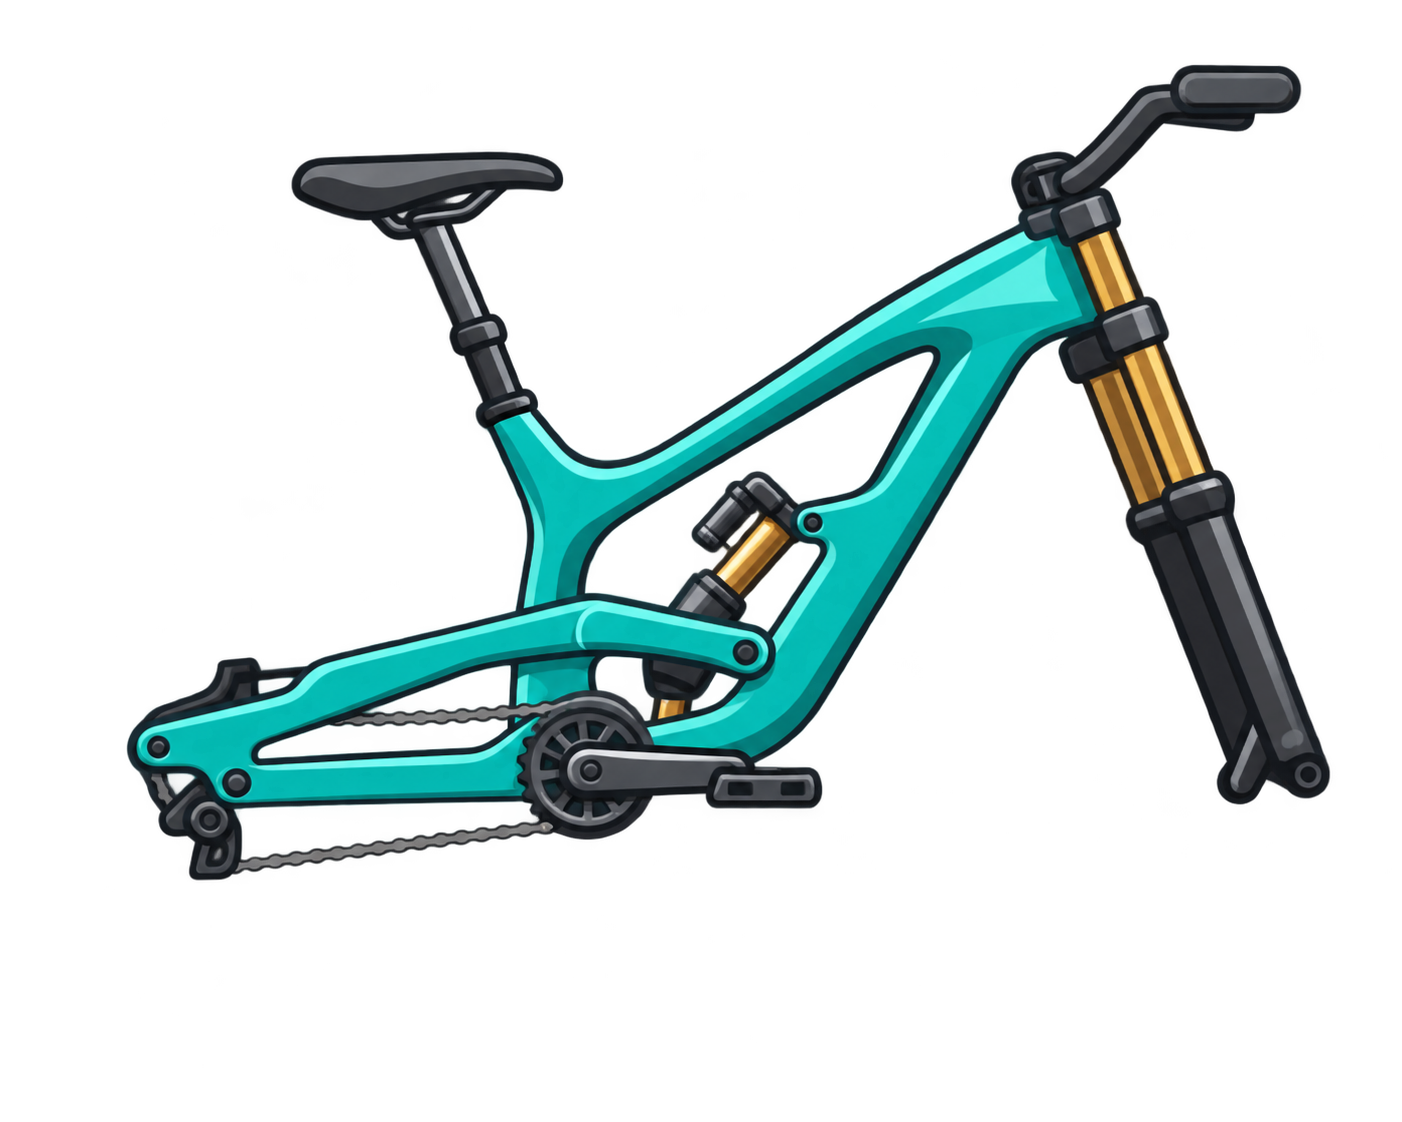
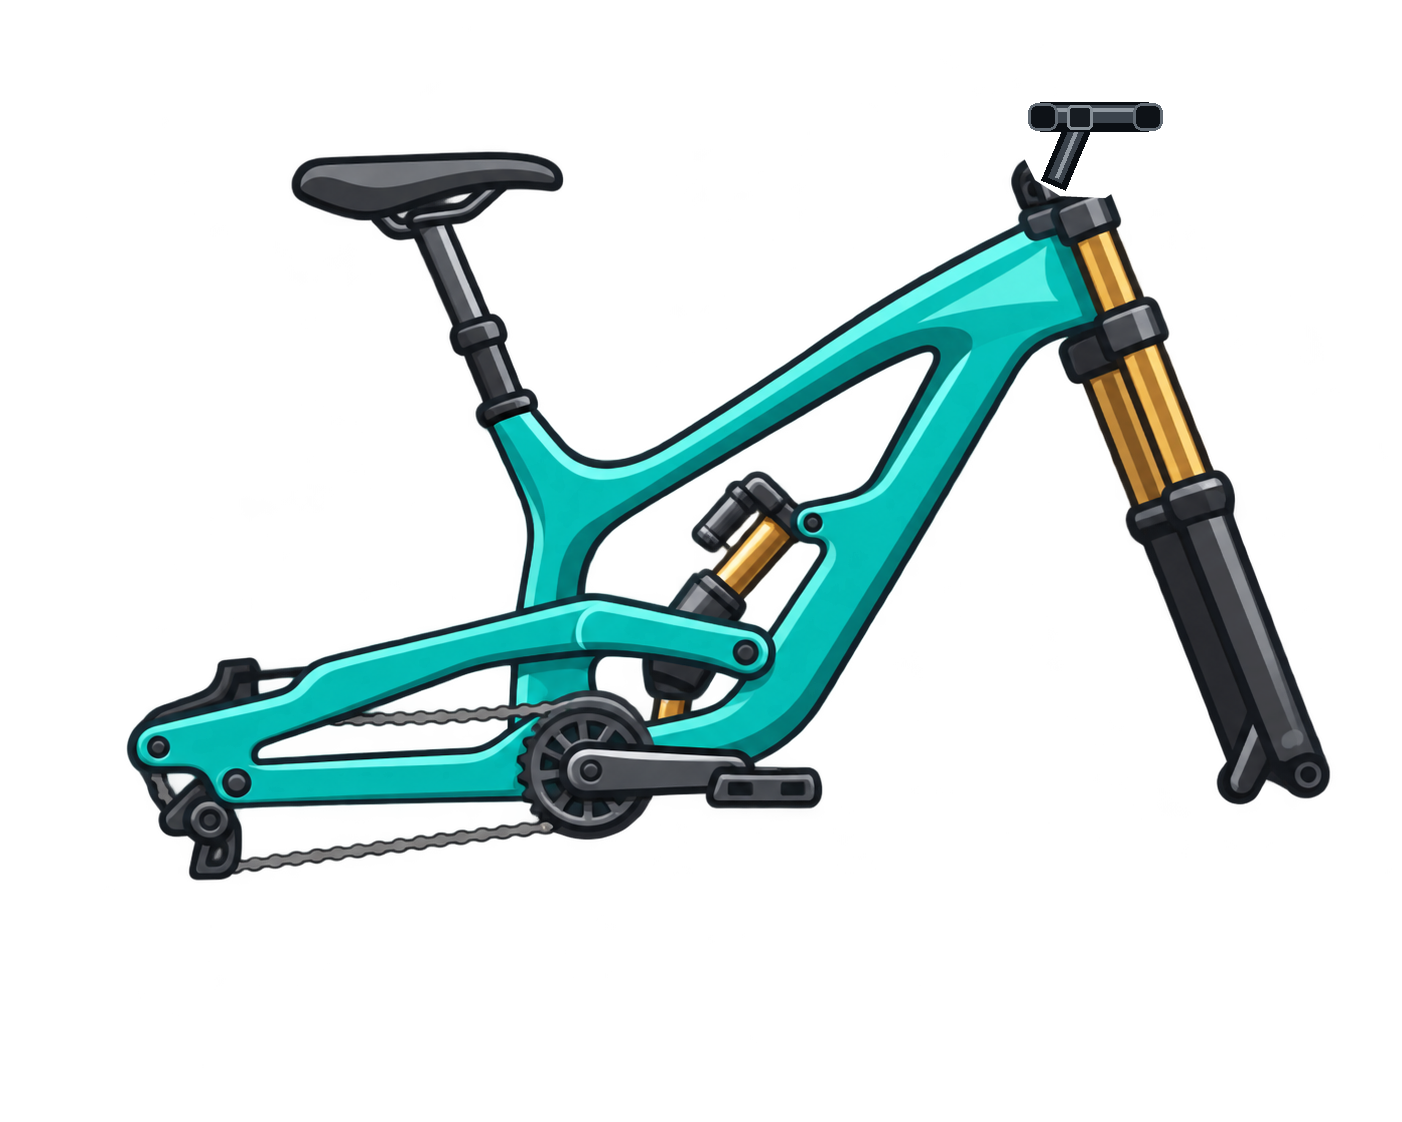
Add files via upload

Changed region(s): [[0.7361, 0.0312, 0.9508, 0.1872]]

diff --git a/index.html b/index.html
@@ -37,7 +37,7 @@
 @keyframes splashLoad{to{width:100%}}
 @media(orientation:portrait){#app{inset:auto;top:0;left:100%;width:100vh;height:100vw;transform-origin:0 0;transform:rotate(90deg)}}
  
-.top{left:max(12px,env(safe-area-inset-left));right:max(12px,env(safe-area-inset-right));top:max(10px,env(safe-area-inset-top));justify-content:space-between;pointer-events:none}
+.top{left:auto;right:max(12px,env(safe-area-inset-right));top:max(10px,env(safe-area-inset-top));justify-content:flex-end;gap:10px;pointer-events:none}
 .top .icon{pointer-events:auto}
 .menu-trigger{font-size:25px;background:rgba(14,25,36,.78);border:2px solid #d8e0e8}
 
@@ -338,14 +338,26 @@ function drawBike(){
    const dx=-L-rearAxleX*scale,dy=sr-rearAxleY*scale;
    ctx.drawImage(frameSprite,dx,dy,dw,dh);
  }
- // Rider is a separate animated layer; no old frame tubes are drawn over the PNG.
+ // Compact rider cockpit pose: both forearms finish on the shortened handlebar grips.
  const lnR=(pts,col,w)=>ln(pts,col,w);
- lnR([-12,-12,4,-36],"#17243a",8);
- lnR([4,-36,27,-17],"#17243a",6);
- lnR([4,-36,27,-17],"#238a7e",3.5);
- ctx.fillStyle="#111";ctx.beginPath();ctx.arc(27,-17,3.5,0,7);ctx.fill();
- ctx.fillStyle="#f1c27d";ctx.beginPath();ctx.arc(6,-48,7.5,0,7);ctx.fill();
- ctx.fillStyle="#ff9f1c";ctx.beginPath();ctx.arc(6,-49,8,Math.PI,2*Math.PI);ctx.fill();
+ const skin="#d7d7d7",suit="#17202b",suitHi="#34404b";
+ // seated core and shoulder
+ lnR([-17,-13,1,-36],suit,9);
+ lnR([-17,-13,1,-36],suitHi,3);
+ // near arm: shoulder -> elbow -> grip
+ lnR([1,-35,15,-39,31,-44],suit,6.5);
+ lnR([1,-35,15,-39,31,-44],suitHi,2);
+ // far arm, slightly offset so both hands visibly wrap the bar
+ lnR([-1,-33,10,-38,21,-44],suit,5.5);
+ lnR([-1,-33,10,-38,21,-44],suitHi,1.8);
+ // gloves at the two grips
+ ctx.fillStyle="#090c10";ctx.beginPath();ctx.arc(31,-44,3.1,0,Math.PI*2);ctx.fill();
+ ctx.beginPath();ctx.arc(21,-44,2.8,0,Math.PI*2);ctx.fill();
+ // helmet and visor
+ ctx.fillStyle=skin;ctx.beginPath();ctx.arc(5,-48,7.5,0,Math.PI*2);ctx.fill();
+ ctx.fillStyle="#111820";ctx.strokeStyle="#e7e7e7";ctx.lineWidth=1;
+ ctx.beginPath();ctx.arc(4,-50,9,Math.PI,Math.PI*2);ctx.lineTo(13,-47);ctx.lineTo(8,-43);ctx.lineTo(0,-43);ctx.closePath();ctx.fill();ctx.stroke();
+ ctx.fillStyle="#f1f1f1";ctx.fillRect(8,-48,7,2.5);
  ctx.restore();
 }
 function mountains(f,base,amp,col){ctx.fillStyle=col;ctx.beginPath();ctx.moveTo(0,H);

diff --git a/sw.js b/sw.js
@@ -1,4 +1,4 @@
-const CACHE="freeride-mtb-frog-swamp-v39";
+const CACHE="freeride-mtb-frog-swamp-v39-cockpit";
 const CORE=["./","./index.html","./manifest.json","./freeride_frame.png"];
 self.addEventListener("install",e=>e.waitUntil(caches.open(CACHE).then(c=>c.addAll(CORE)).then(()=>self.skipWaiting())));
 self.addEventListener("activate",e=>e.waitUntil(caches.keys().then(keys=>Promise.all(keys.filter(k=>k.startsWith("freeride-mtb-")&&k!==CACHE).map(k=>caches.delete(k)))).then(()=>self.clients.claim())));
